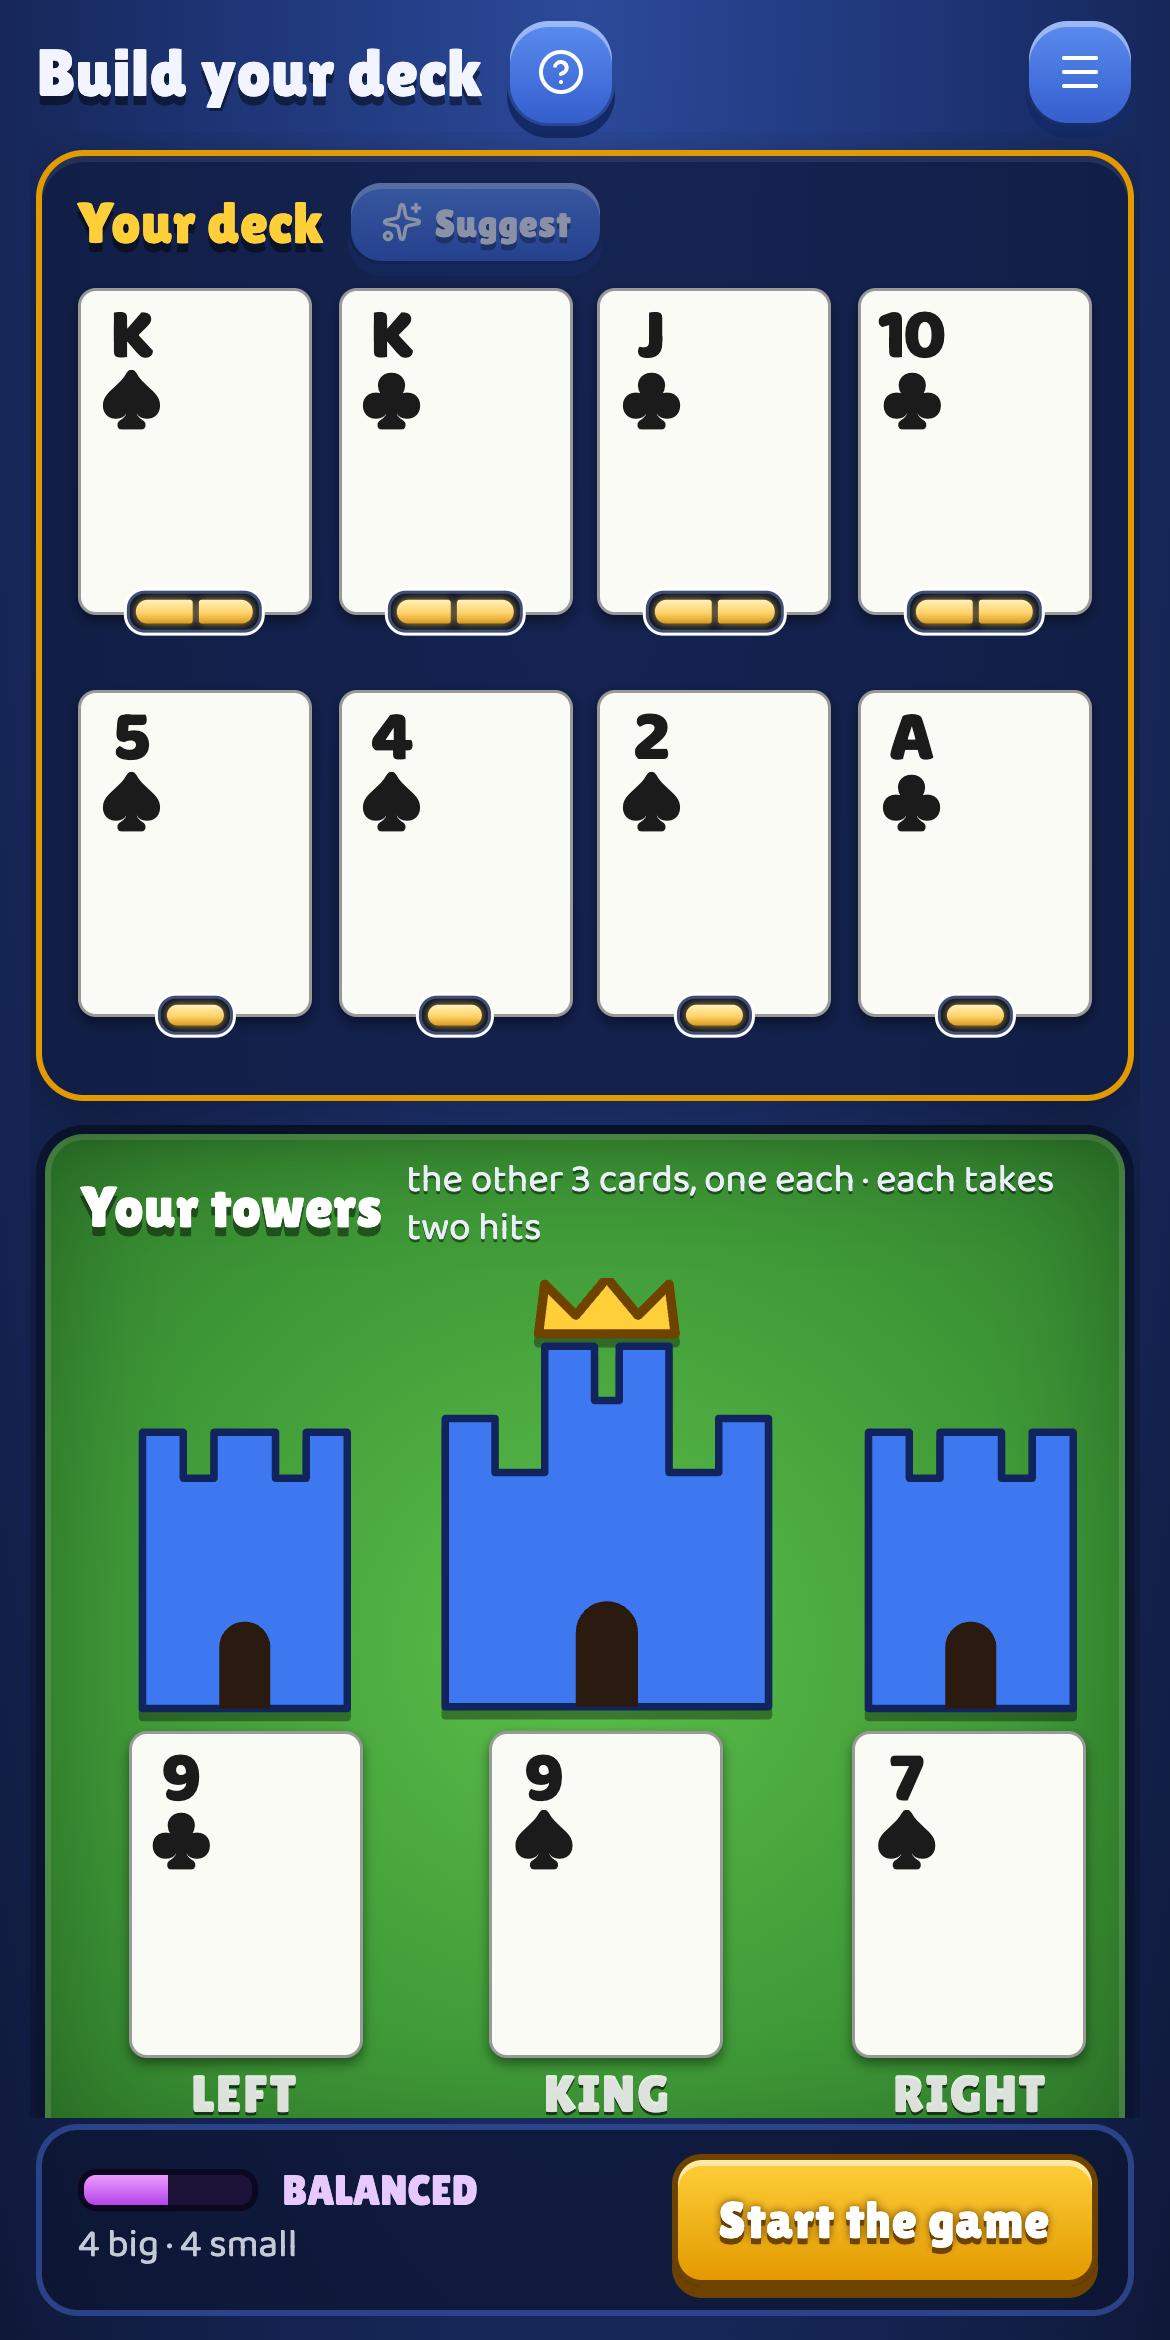
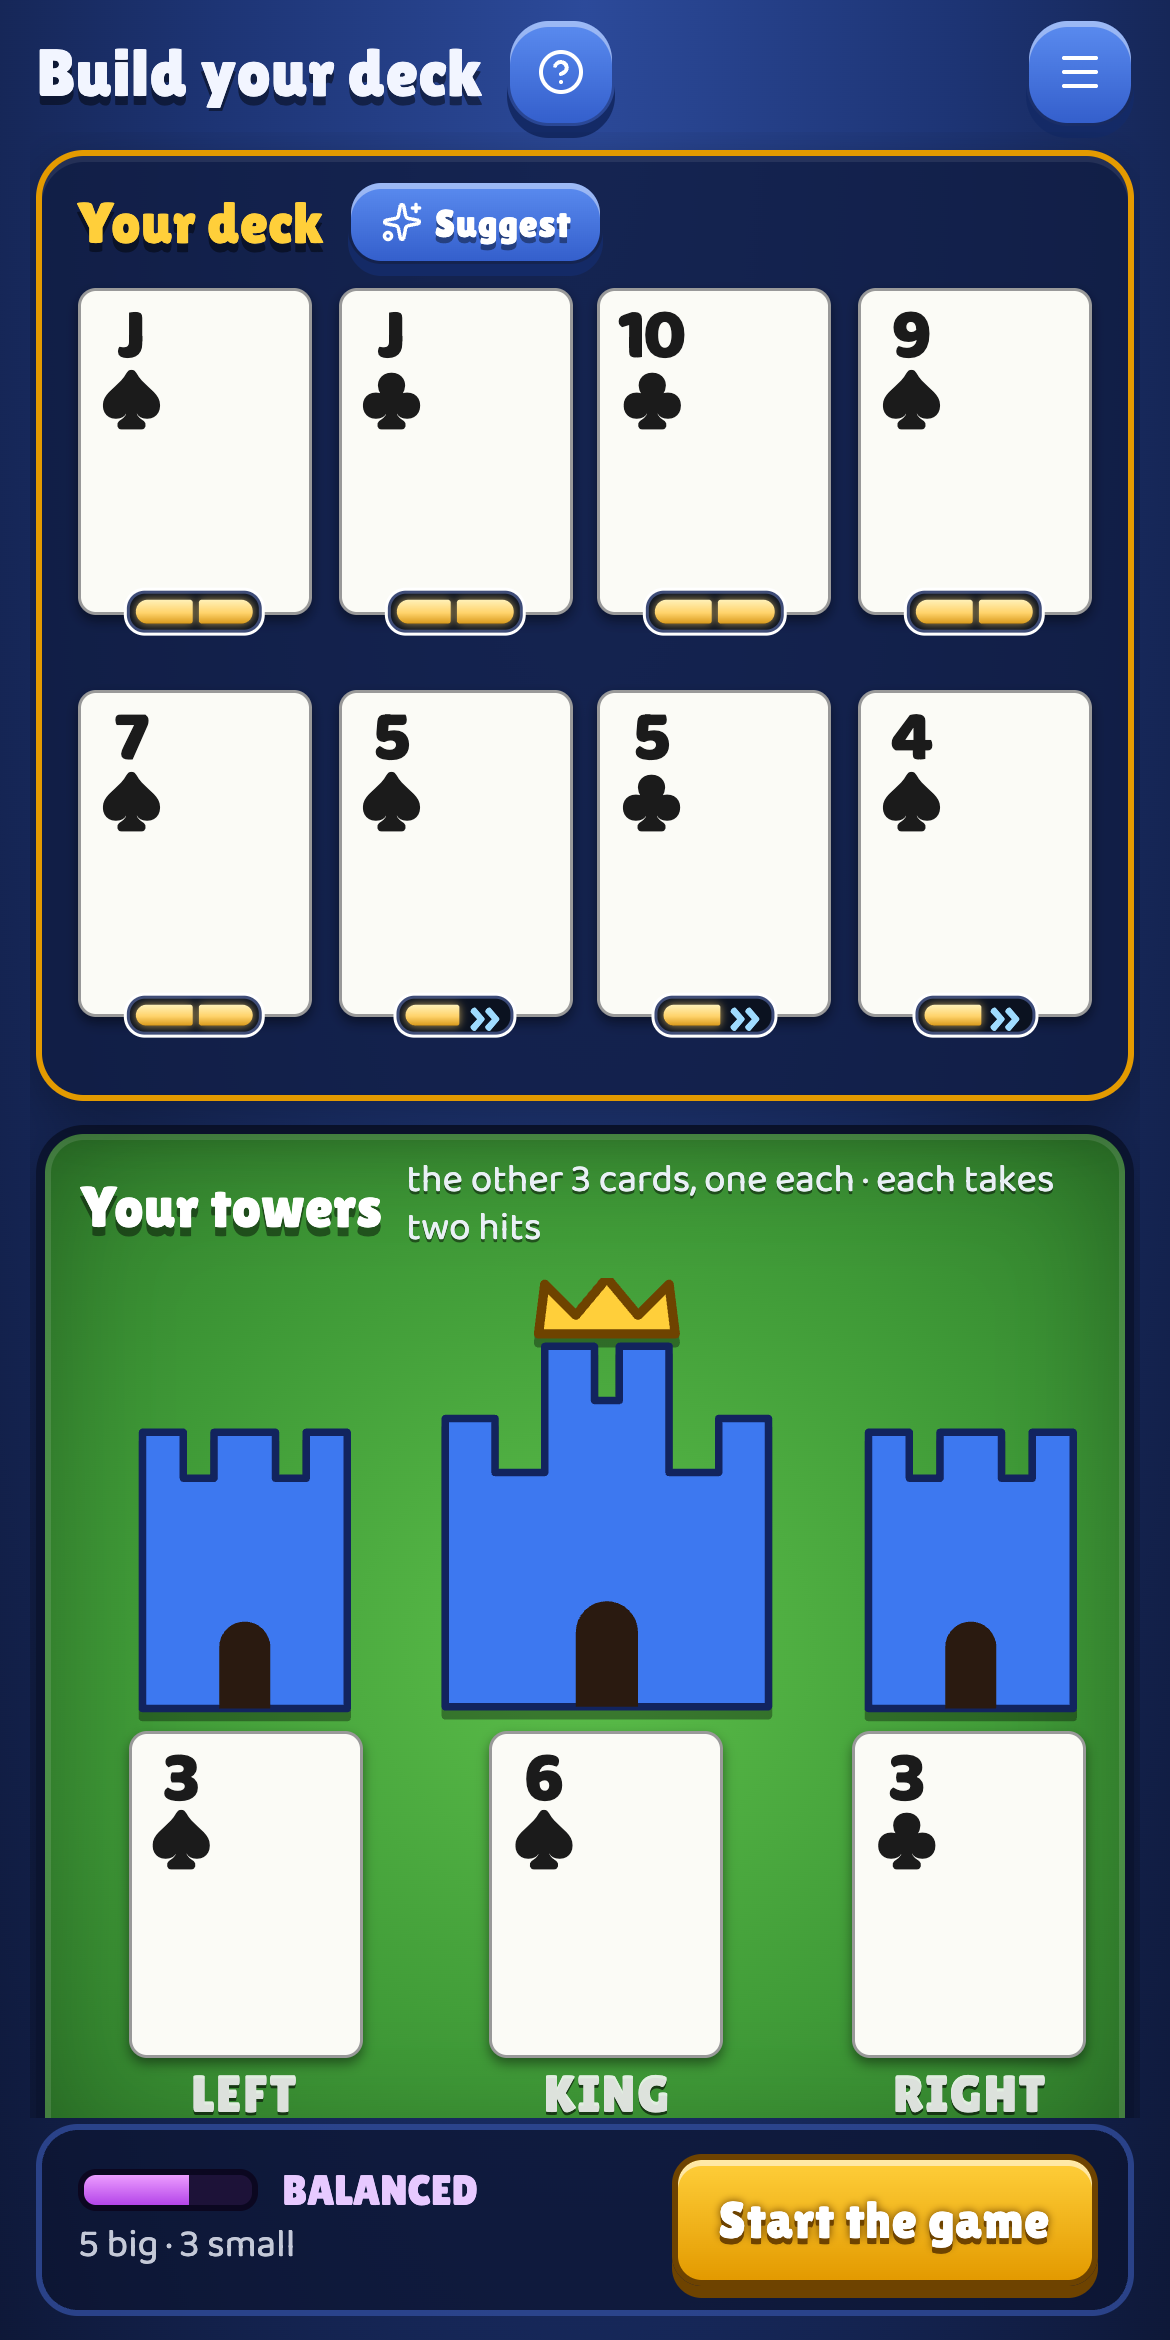
Screenshots show runners (the board with a suggested runner and the enemy's runner warning, the deck screen with » on small cards), the suggestion says a small card with a clear lane runs to a tower, README describes runners, and the itch.io description gets the rule plus an update post to publish

diff --git a/app/src/guide.ts b/app/src/guide.ts
@@ -853,10 +853,13 @@ export function advise(g: GuideState): Advice {
   const first = best.plays.find(p => base.leaks[p.lane].length > best.leaks[p.lane].length) ?? best.plays[0]
   const c = hand[first.i], ln = laneName(first.lane).toLowerCase()
   const stops = base.leaks[first.lane].length > best.leaks[first.lane].length
-  const short = stops ? `it stops the enemy ${cardList(base.leaks[first.lane])}` : 'nothing there beats it, so it can reach a tower'
+  const runs = !!g.rules.runners && c.rank <= 5 // a small card with a clear path runs: 2 slots a round
+  const short = stops ? `it stops the enemy ${cardList(base.leaks[first.lane])}` : runs ? 'nothing there beats it, and it runs » to a tower' : 'nothing there beats it, so it can reach a tower'
   let reason = stops
     ? `Without help, the enemy ${cardList(base.leaks[first.lane])} would get through the ${ln} lane and crack or break your tower. ${label(c)} stops ${base.leaks[first.lane].length > 1 ? 'them' : 'it'}.`
-    : `${label(c)} has a clear path in the ${ln} lane: nothing the enemy has there beats it, so it should reach the enemy tower. If it breaks a card there, it stays for one more hit.`
+    : runs
+      ? `${label(c)} has a clear path in the ${ln} lane, and small cards run: 2 slots a round, so it reaches the enemy tower fast. Any hit cracks a tower card.`
+      : `${label(c)} has a clear path in the ${ln} lane: nothing the enemy has there beats it, so it should reach the enemy tower. If it breaks a card there, it stays for one more hit.`
   if (best.plays.length > 1) reason += ` Plan for this turn: ${best.plays.map(p => `${label(hand[p.i])} → ${laneName(p.lane)}`).join(', ')}.`
   const stillLeaks = [0, 1].filter(l => best.leaks[l].length)
   if (stillLeaks.length) reason += ` You can't stop everything: ${stillLeaks.map(l => cardList(best.leaks[l])).join(', ')} will still get through.`

diff --git a/README.md b/README.md
@@ -7,9 +7,9 @@
 Free, no sign-up, works on phones and desktops.
 
 <p align="center">
-  <img src="docs/screenshots/arena.png?v=4" alt="Suitkeep on screen in round 4: red enemy castles at the top, the left one cracked with its 4♥ showing, your black cards in both lanes of 3 slots, the enemy's face-up next card K♦ between the lanes, your blue castles with their tower cards, and below them your next card on the left, your hand of 3 big cards, and the Done button with the turn bar under it" width="300" />
+  <img src="docs/screenshots/arena.png?v=5" alt="Suitkeep on screen in round 3: red enemy castles at the top, your K♠ at the enemy's left tower, the enemy K♦ coming down the right lane, the enemy's face-up next card 5♥ marked » (a runner) between the lanes, the empty left lane glowing as the suggested move with the line '3♠ in the left lane: nothing there beats it, and it runs » to a tower', your blue castles with their tower cards, and below them your hand with the suggested 3♠, its turn pill marked »" width="300" />
   &nbsp;
-  <img src="docs/screenshots/title.png?v=4" alt="Suitkeep title screen with a gold crown logo and the tagline "A solo card battle, one deck" and the Play, Play with real cards and How to play buttons" width="520" />
+  <img src="docs/screenshots/title.png?v=5" alt="Suitkeep title screen with a gold crown logo and the tagline "A solo card battle, one deck" and the Play, Play with real cards and How to play buttons" width="520" />
 </p>
 
 ## Two ways to play
@@ -25,30 +25,30 @@ Free, no sign-up, works on phones and desktops.
 - **Aces beat Kings** in a fight, whatever the suits.
 - **Your turn:** play 1 card, or 2 small cards (A to 5), from a hand of 3. Nothing to count, nothing carries over. Small cards run: they move 2 slots a round, straight at a tower.
 - **The enemy** plays 2 cards a round, the top of its pile: the first defends the lane where you pushed harder, the second goes into the other lane. Its top card is always face-up, so you know its next play.
-- **Each round:** you play, the enemy plays, the front cards fight (when one falls, the card behind it steps up and fights next), then every card that hasn't moved steps forward through the 3 slots of its lane. Cards that get through hit a tower.
+- **Each round:** you play, the enemy plays, the front cards fight (when one falls, the card behind it steps up and fights next), then every card that hasn't moved steps forward through the 3 slots of its lane, and small cards run two. Cards that get through hit a tower.
 - **Towers are armored:** every tower card takes two hits, the first cracks it, the next breaks it. A hit is a fight against the tower card (the wheel and aces count): win and your card stays, wounded, for that next hit; lose or tie and it goes home.
 
 Full rules: [RULEBOOK.md](RULEBOOK.md) · Printable rulebook (3 pages, A4): [print/Suitkeep-Rulebook.pdf](print/Suitkeep-Rulebook.pdf)
 
 ## Features
 
-- **Game feel:** "×2!", "ACE!", "CRACK" and "TOWER DOWN!" pop-ups, board shake and sound effects. Every fight also says in plain words why it was won.
+- **Game feel:** "×2!", "ACE!", "CRACK" and "TOWER DOWN!" pop-ups, board shake and sound effects. Every fight also says in plain words why it was won. A small card that runs hops twice with a skip for each hop, and its tower hit says "» runner".
 - **Music:** a slow theme on the title and a lighter loop during a game, on the trailer's chords and lute; war drums and brass join once a king stands open. Music and sounds each have a switch in the menu.
-- **Arena view** on screen: castles that show their state (whole, cracked after the first hit, rubble once fallen) with the tower card beneath, two lanes of 3 slots across a river with each side's Next card between them, and a slim two-half bar under the ✓ button, right of your hand (what is left of your turn). The dots on a gold pill (one dot for a small card, two for any other) show how much of your turn a card uses, only where you need it: your hand and your next card. Cards already in the lanes stay clean. The cards about to fight tremble first, and a card attacking a tower waits in the slot next to it.
+- **Arena view** on screen: castles that show their state (whole, cracked after the first hit, rubble once fallen) with the tower card beneath, two lanes of 3 slots across a river with each side's Next card between them, and a slim two-half bar under the ✓ button, right of your hand (what is left of your turn). The dots on a gold pill (one dot for a small card, two for any other) show how much of your turn a card uses, only where you need it: your hand and your next card. A small card's pill also carries », the runner mark, and the enemy's Next card shows » when a runner is coming. Cards already in the lanes stay clean. The cards about to fight tremble first, and a card attacking a tower waits in the slot next to it.
 - **Deck building:** your 11 cards arrive split at random into a deck of 8 and three towers of 1; building a good deck is up to you. Tap two cards to swap them and watch the big/small meter. **Suggest** sets a good split and says why. One deal per game, as at the table: a deal you leave unplayed is still yours next time.
 - **Installable app:** add it to your home screen (Install the app on the title screen, or Share → Add to Home Screen on iPhone). After one visit it plays offline.
 - **Real-cards setup in pictures:** one step per screen, from shuffling to laying out the table.
 - **Change your mind until you tap Done:** drag a card you placed back to your hand or onto the other lane, or tap two cards to switch them. With real cards, undo and redo fix entry mistakes.
 - **Your pace:** on screen, tap the field to skip ahead while the enemy plays, or turn on fast enemy turns. With real cards, a round's fights, moves and tower hits can come as one checklist with one Done (on by default after two games at the table).
-- **Learn from each game:** the end of a game names the one thing that cost you most (an open lane, an enemy ace, the suit wheel, a wasted turn), and keeps your record: wins, games and fastest win.
+- **Learn from each game:** the end of a game names the one thing that cost you most (an open lane, enemy runners, an enemy ace, the suit wheel, a wasted turn, small cards that never ran), credits your runners' tower hits, and keeps your record: wins, games and fastest win. Past games marks the ones played before small cards ran as "old rules".
 - Game saved in the browser, an optional suggested move, and a log of everything that happened.
 - **Anonymous play counts** (Umami: no cookies, no names), so we can see whether players finish a game and come back. Open the site with `?nostats` to stop counting in your browser.
-- **Balanced by simulation and real games:** thousands of simulated games, checked against a first-time player's playtests, tuned the rules. Games last about 6 rounds. A first-time player who thinks wins a bit more than half, a careless one about 4 in 10, and decks with 4 to 6 big cards win about as often: skill is in the playing. One deal per game, as at the table.
+- **Balanced by simulation and real games:** thousands of simulated games, checked against a first-time player's playtests, tuned the rules. The newest rule, small cards run (October 2026), came from a player's feedback that small cards were useless; it is checked in simulation and being playtested now. Games last about 6 rounds. A first-time player who thinks wins a bit more than half, a careless one about 4 in 10, and decks with 4 to 6 big cards win about as often: skill is in the playing. One deal per game, as at the table.
 
 <p align="center">
-  <img src="docs/screenshots/deck.png?v=4" alt="Suitkeep deck building screen: the 8 deck cards on top, each with a one- or two-dot turn badge, the three towers of one card each under blue castles, and the big/small meter with Start the game at the bottom" width="420" />
+  <img src="docs/screenshots/deck.png?v=5" alt="Suitkeep deck building screen: the 8 deck cards on top (Q♠ Q♣ J♠ 10♣ 8♣ 6♣ and the runners 3♣ 2♣), each with a one- or two-dot turn badge, the small ones marked », the three towers of one card each under blue castles, and the big/small meter reading balanced, 6 big and 2 small, with Start the game at the bottom" width="420" />
   &nbsp;
-  <img src="docs/screenshots/real-cards-setup.png?v=4" alt="Suitkeep real-cards setup, first step: split the deck by colour, black cards for you and red cards for the enemy" width="420" />
+  <img src="docs/screenshots/real-cards-setup.png?v=5" alt="Suitkeep real-cards setup, first step: split the deck by colour, black cards for you and red cards for the enemy" width="420" />
 </p>
 
 ## Run it locally

diff --git a/MONETIZATION.md b/MONETIZATION.md
@@ -395,11 +395,21 @@ One good photo does most of the work:
 > - Suit wheel: ♠ beats ♥ beats ♦ beats ♣ beats ♠. A card counts double against the suit it beats.
 > - Aces beat Kings.
 > - Each round you play 1 card, or 2 small ones. The enemy plays two, and its next card is always face-up.
+> - Small cards run: they move two slots a round, straight at a tower.
 > - Towers are armored: two hits each. Take the enemy's king tower to win.
 >
 > 1 player · 10 minutes · phone and desktop · plays offline after the first visit
 >
 > The rulebook PDF is free. If you enjoy the game, a small donation helps me keep improving it.
+
+**Update post** (2026-10-17, itch.io → Edit game → Devlog → Create new post; type Update):
+> **Title:** Small cards run
+>
+> A player told me small cards felt useless: they lost every fight and did nothing. He was right, and the simulator agreed. So now **small cards (A to 5) run**: they move two slots a round instead of one, straight at a tower, and any hit cracks a tower card. The enemy's small cards run too, and its Next card shows » when one is coming.
+>
+> Look for » on your small cards. Games are a bit shorter now (about 6 rounds), and always playing your strongest card wins less than before: it pays to think about when to send a runner.
+>
+> The rulebook PDF is updated too. Thanks for the feedback, keep it coming!
 
 **Tags** (up to 10): `card-game`, `solitaire`, `strategy`, `turn-based`, `tabletop`, `print-and-play`, `singleplayer`, `minimalist`, `casual`, `mobile`
 
